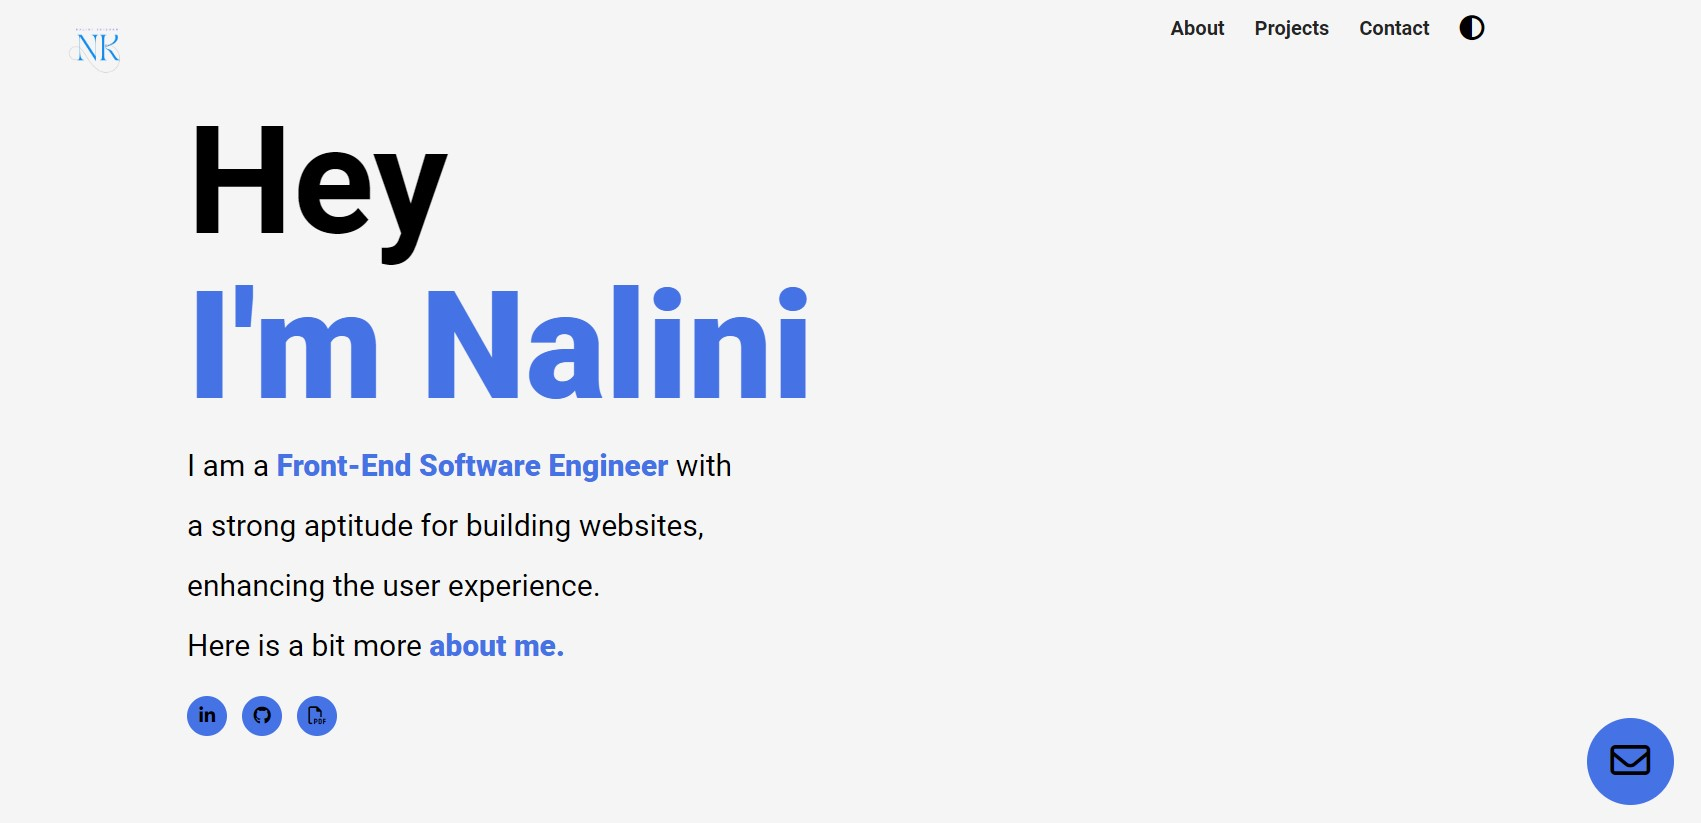
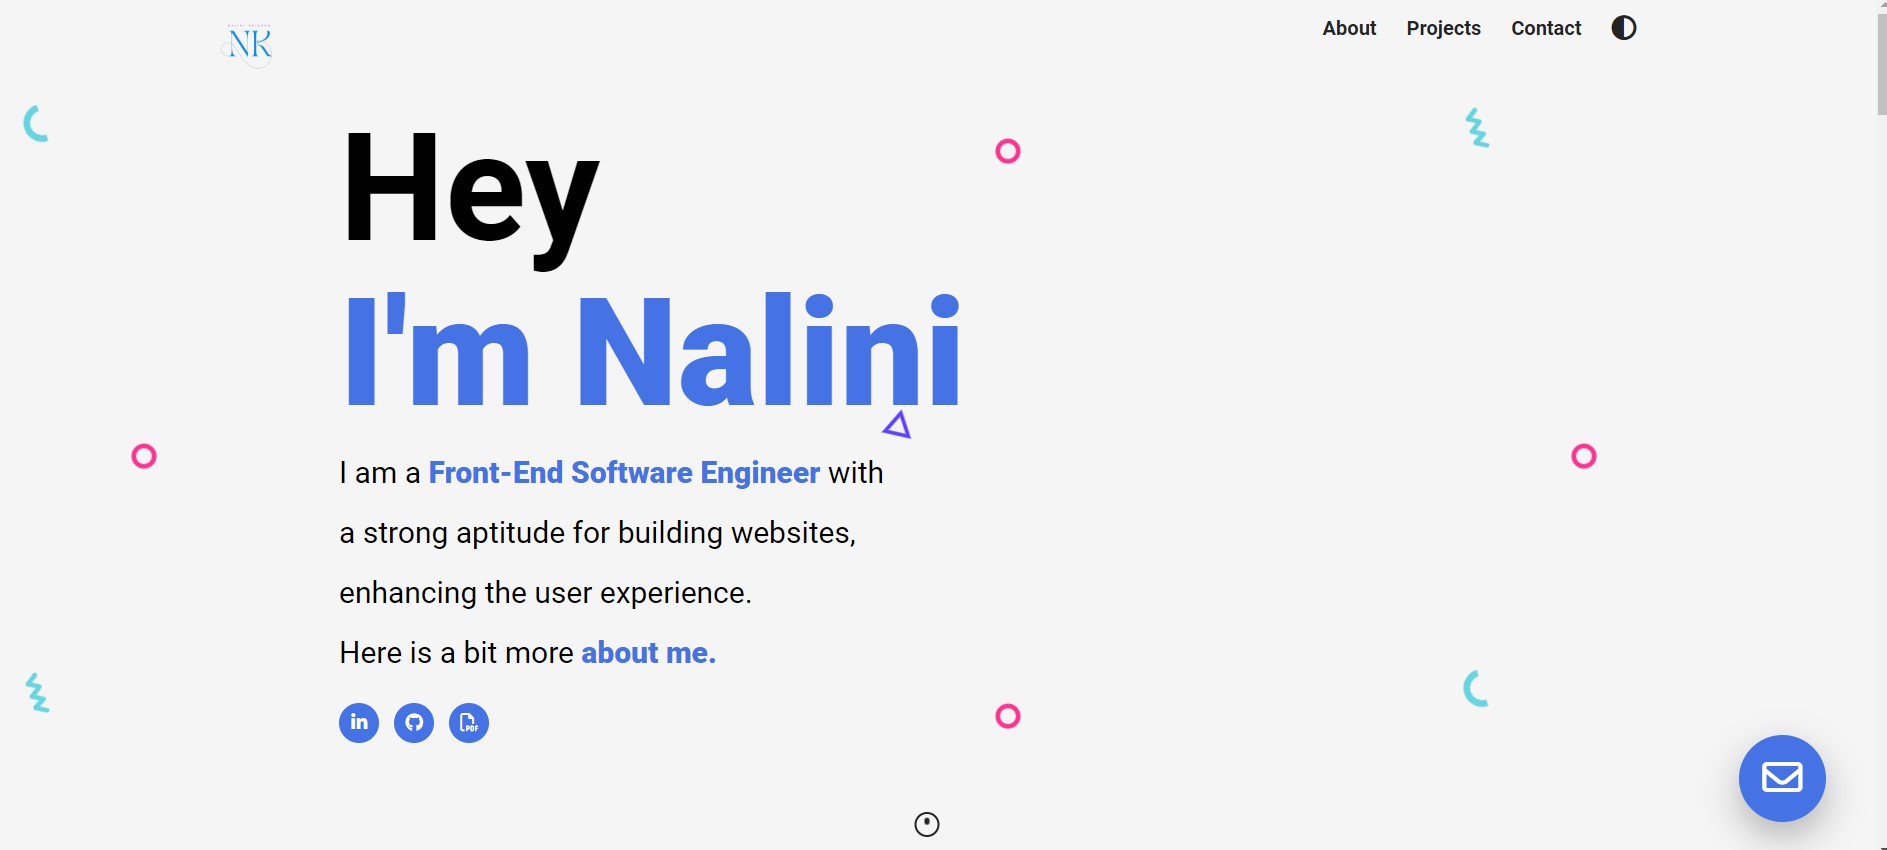
Completed portfolio, now fixing issues

diff --git a/style.css b/style.css
@@ -1,7 +1,6 @@
 @import url("https://fonts.googleapis.com/css2?family=Inter:wght@100..900&family=Roboto+Slab:wght@100..900&family=Roboto:ital,wght@0,100;0,300;0,400;0,500;0,700;0,900;1,100;1,300;1,400;1,500;1,700;1,900&display=swap");
 
 * {
-  color: black;
   margin: 0;
   padding: 0;
   box-sizing: border-box;
@@ -9,7 +8,7 @@
 }
 
 html { 
-    scroll-behavior: smooth;
+  scroll-behavior: smooth;
 }
 
 li {
@@ -51,7 +50,7 @@ textarea {
 .textarea {
   resize: vertical;
   height: 100px;
-  margin-top: 6px;
+  margin-top: 8px;
 }
 
 .label {
@@ -66,7 +65,7 @@ textarea:hover {
 
 input:focus,
 textarea:focus {
-  background-color: rgb(69, 114, 228);
+  border-color: rgb(69, 114, 228);
 }
 
 .container {
@@ -87,7 +86,7 @@ textarea:focus {
 }
 
 .click:hover {
-  transform: scale (0.8);
+  transform: scale (1.1);
 }
 
 .click:active {
@@ -117,7 +116,7 @@ textarea:focus {
   height: 3px;
   width: 0;
   right: 0;
-  background-color: black;
+  /* background-color: black; */
   transition: all 300ms ease;
 }
 
@@ -147,7 +146,7 @@ FADE MODAL OUT */
 .modal--open nav,
 .modal--open .scroll,
 .modal--open .header {
-    opacity: 1; 
+    opacity: 0; 
     visibility: hidden; 
     transition: all 400ms; 
 }
@@ -235,6 +234,8 @@ LANDING PAGE
   font-weight: 900;
 }
 
+
+
 .title-secondary {
   color: rgb(69, 114, 228);
   font-weight: 900;
@@ -258,6 +259,8 @@ LANDING PAGE
 .scroll {
   position: absolute;
   bottom: 20px;
+  left: 50%;
+  transform: translateX(-50%);
 }
 
 .scroll__icon {
@@ -266,7 +269,7 @@ LANDING PAGE
   border: 2px solid #242424;
   border-radius: 24px;
   left: 50%;
-  transform: translateX(-50%);
+  /* transform: translateX(-50%); */
   display: flex;
   justify-content: center;
   align-items: center;
@@ -318,7 +321,7 @@ nav {
 }
 
 .nav__link {
-  margin: 15px 12px;
+  margin: 18px 12px;
 }
 
 .nav__link--anchor {
@@ -390,6 +393,7 @@ MODAL
   flex-direction: column;
   justify-content: center;
   transition: all 300ms ease-in; 
+  position: relative; 
 }
 /* 
 WHEN MODAL IS OPEN ITS TRANSLATED BACK TO ORIGINAL VALUE */
@@ -404,13 +408,6 @@ TRANSLATE MAKES THE CONTACT FORM SLIDE IN */
   background-color: rgb(245, 245, 245);
   transform: translateX(-110%);
 }
-/* 
-NOW MODAL SLIDES IN FROM THE RIGHT - CONTACT SIDE IS ON RIGHT */
-.modal__contact {
-  background-color: rgb(69, 114, 228);
-  color: white;
-  transform: translateX(110%);  
-}
 
 .modal__languages {
   display: flex;
@@ -421,6 +418,7 @@ NOW MODAL SLIDES IN FROM THE RIGHT - CONTACT SIDE IS ON RIGHT */
   width: 25%;
   padding: 16px;
   position: relative;
+  display: flex;
   flex-direction: column;
   align-items: center;
   transition: all 300ms ease;
@@ -449,6 +447,15 @@ but that doesn't work for me */
   width: 100%;
 }
 
+/* 
+NOW MODAL SLIDES IN FROM THE RIGHT - CONTACT SIDE IS ON RIGHT */
+.modal__contact {
+    background-color: rgb(69, 114, 228);
+    color: white;
+    transform: translateX(110%);  
+  }
+
+
 .modal__sub-title {
   font-size: 14px;
   margin: 12px 0px 24px 0;
@@ -473,7 +480,7 @@ but that doesn't work for me */
   background-color: rgb(69, 114, 228);
   border: 2px solid rgb(69, 114, 228);
   color: white;
-  font-weight: bold;
+  font-weight: 700;
   max-width: 240px;
   width: 100%;
   padding: 12px 24px;
@@ -576,12 +583,13 @@ PROJECTS
 .project__wrapper {
   position: relative;
   border-radius: 20px;
+  margin-bottom: 76px;
   box-shadow: 0 20px 80px 0 rgb(0, 0, 0, 0.45);
   overflow: hidden;
 }
 
 .project__wrapper:hover .project__description {
-  opacity: 0.7;
+  opacity: 1;
   transform: translateY(-50%);
 }
 
@@ -657,8 +665,8 @@ footer {
 
 .footer__logo--img {
   width: 70px;
-  display: flex;
-  align-items: center;
+  /* display: flex;
+  align-items: center; */
 }
 
 .footer__social--list {
@@ -671,6 +679,7 @@ footer {
 }
 
 .footer__social--link,
+.footer__social--link2,
 .footer__copyright {
   color: white;
   display: flex;

diff --git a/index.html b/index.html
@@ -79,14 +79,14 @@
           </p>
           <div class="social__list">
             <a
-              href="https://google.com"
+              href="https://www.linkedin.com/in/nalinionair/"
               target="_blank"
               class="social__link click"
             >
               <i class="fa-brands fa-linkedin-in"></i>
             </a>
 
-            <a href="https://google.com" target="_blank" class="social__link">
+            <a href="https://github.com/Nalinaka" target="_blank" class="social__link">
               <i class="fa-brands fa-github"></i>
             </a>
             <a
@@ -399,7 +399,7 @@
           </a>
           <a
             href="#" onclick="toggleModal()" class=""
-            class="footer__social--link link__hover-effect link__hover-effect-white"
+            class="footer__social--link2 link__hover-effect link__hover-effect-white"
           >
             Contact
           </a>

diff --git a/index.js b/index.js
@@ -20,7 +20,8 @@ function moveBackground(event) {
     for (let i=0; i < shapes.length; i++) {
         const isOdd = i % 2 === 0;
         const boolInt = isOdd? -1 : 1;
-        shapes[i].style.transform = `translate(${x * boolInt}px, ${y * boolInt}px)`
+        // ROTATION
+        shapes[i].style.transform = `translate(${x * boolInt}px, ${y * boolInt}px) rotate(${x * boolInt * 10}deg)` 
     }
 
 }
@@ -66,9 +67,9 @@ function contact(event) {
 
 // THIS CODE ALLOWS THE TOGGLE TO OPEN AND CLOSE FOR CONTACT FORM
 function toggleModal() {
-    if (ismodalOpen) {
+    if (isModalOpen) {
     isModalOpen = false; 
-    return document.body.classList.remove("modal--open")
+    return document.body.classList.remove("modal--open");
     }
   isModalOpen = true;
   document.body.classList += " modal--open";
